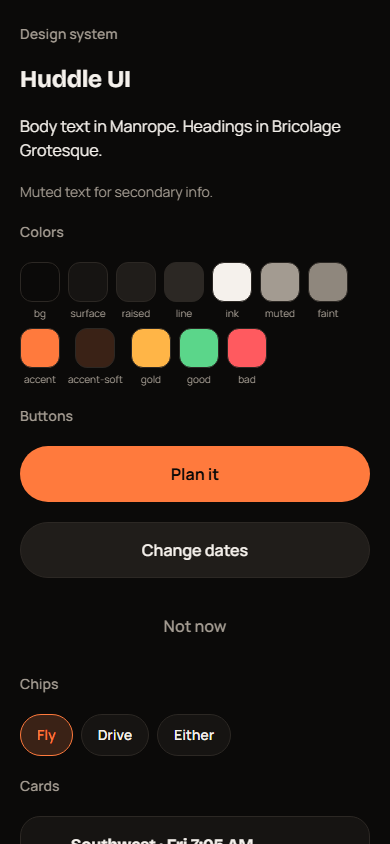
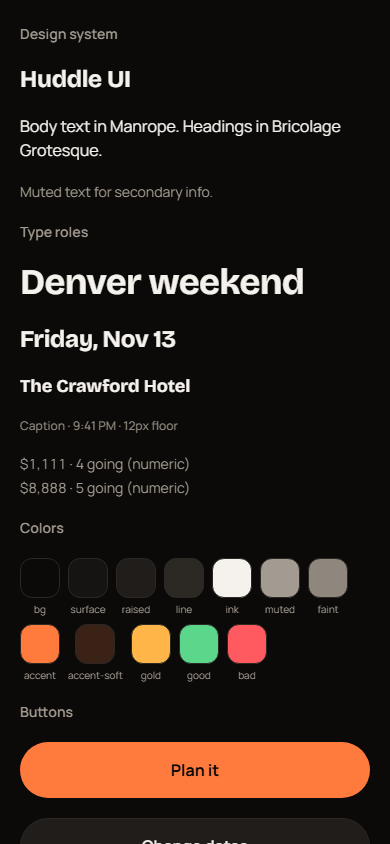
design(ui): one cn implementation; gallery shows the new primitives
- lib/cn re-exports components/ui/cn, so every caller merges the type roles
- /dev/ui shows Display, Caption, numeric text, a disabled Button, the
  accent Badge variant and a ticket with Perforation

diff --git a/apps/mobile/src/app/dev/ui.tsx b/apps/mobile/src/app/dev/ui.tsx
@@ -1,4 +1,4 @@
-import { AirplaneTilt, Bed, ForkKnife, MapPin } from "phosphor-react-native";
+import { AirplaneTilt, Bed, ForkKnife, MapPin, MapTrifold } from "phosphor-react-native";
 import { useState } from "react";
 import { View } from "react-native";
 import {
@@ -6,11 +6,14 @@ import {
   Badge,
   Body,
   Button,
+  Caption,
   Card,
   Chip,
+  Display,
   Heading,
   Label,
   Muted,
+  Perforation,
   Screen,
   Skeleton,
   Title,
@@ -29,6 +32,16 @@ export default function UiGallery() {
       <Body>Body text in Manrope. Headings in Bricolage Grotesque.</Body>
       <Muted>Muted text for secondary info.</Muted>
 
+      <Label>Type roles</Label>
+      <Display>Denver weekend</Display>
+      <Title>Friday, Nov 13</Title>
+      <Heading>The Crawford Hotel</Heading>
+      <Caption>Caption · 9:41 PM · 12px floor</Caption>
+      <View className="gap-1">
+        <Muted numeric>$1,111 · 4 going (numeric)</Muted>
+        <Muted numeric>$8,888 · 5 going (numeric)</Muted>
+      </View>
+
       <Label>Colors</Label>
       <View className="flex-row flex-wrap gap-2">
         {Object.entries(colors).map(([name, value]) => (
@@ -46,6 +59,11 @@ export default function UiGallery() {
       <Button label="Plan it" />
       <Button label="Change dates" variant="secondary" />
       <Button label="Not now" variant="ghost" />
+      <Button
+        label="Open the map"
+        disabled
+        icon={<MapTrifold size={20} color={colors.bg} weight={icon.activeWeight} />}
+      />
 
       <Label>Chips</Label>
       <View className="flex-row flex-wrap gap-2">
@@ -81,6 +99,20 @@ export default function UiGallery() {
         <Badge label="Spotted in ski bums" tone="accent" />
         <Badge label="Fits budget" tone="good" />
         <Badge label="3 picks" />
+        <Badge label="$40 over budget" tone="accent" variant="accent" />
+      </View>
+
+      <Label>Ticket perforation</Label>
+      <View className="overflow-hidden rounded-card bg-surface">
+        <View className="gap-1 p-5">
+          <Muted>When</Muted>
+          <Heading>Fri Nov 13 – Sun 15</Heading>
+        </View>
+        <Perforation />
+        <View className="gap-1 p-5">
+          <Heading>Fly or drive?</Heading>
+          <Muted>Austin → Denver is a 13-hour drive.</Muted>
+        </View>
       </View>
 
       <Label>Avatars</Label>

diff --git a/apps/mobile/src/lib/cn.ts b/apps/mobile/src/lib/cn.ts
@@ -1,23 +1,4 @@
-import { extendTailwindMerge } from "tailwind-merge";
-
 // Merge Tailwind classes so a caller's className overrides a component's defaults
-// (e.g. <Heading className="text-base"> really ends up text-base, not text-xl).
-const twMerge = extendTailwindMerge({
-  extend: {
-    classGroups: {
-      "font-family": [
-        "font-display",
-        "font-display-medium",
-        "font-body",
-        "font-body-medium",
-        "font-body-semibold",
-        "font-body-bold",
-      ],
-      "font-size": [{ text: ["xs", "sm", "base", "lg", "xl", "2xl", "3xl", "4xl", "5xl"] }],
-    },
-  },
-});
-
-export function cn(...classes: Array<string | false | null | undefined>) {
-  return twMerge(classes.filter(Boolean).join(" "));
-}
+// (e.g. <Heading className="text-base"> really ends up text-base, not the default size).
+// One implementation, in components/ui/cn.ts, which also knows the type-role sizes.
+export { cn } from "@/components/ui/cn";

diff --git a/apps/mobile/src/components/ui/cn.ts b/apps/mobile/src/components/ui/cn.ts
@@ -33,8 +33,7 @@ const twMerge = extendTailwindMerge({
   },
 });
 
-// Same as @/lib/cn, plus the type roles. Used by the ui primitives.
-// TODO(after this PR): point @/lib/cn at this so screens get the same merge rules.
+// The app's one class-merge helper; @/lib/cn re-exports it.
 export function cn(...classes: Array<string | false | null | undefined>) {
   return twMerge(classes.filter(Boolean).join(" "));
 }
